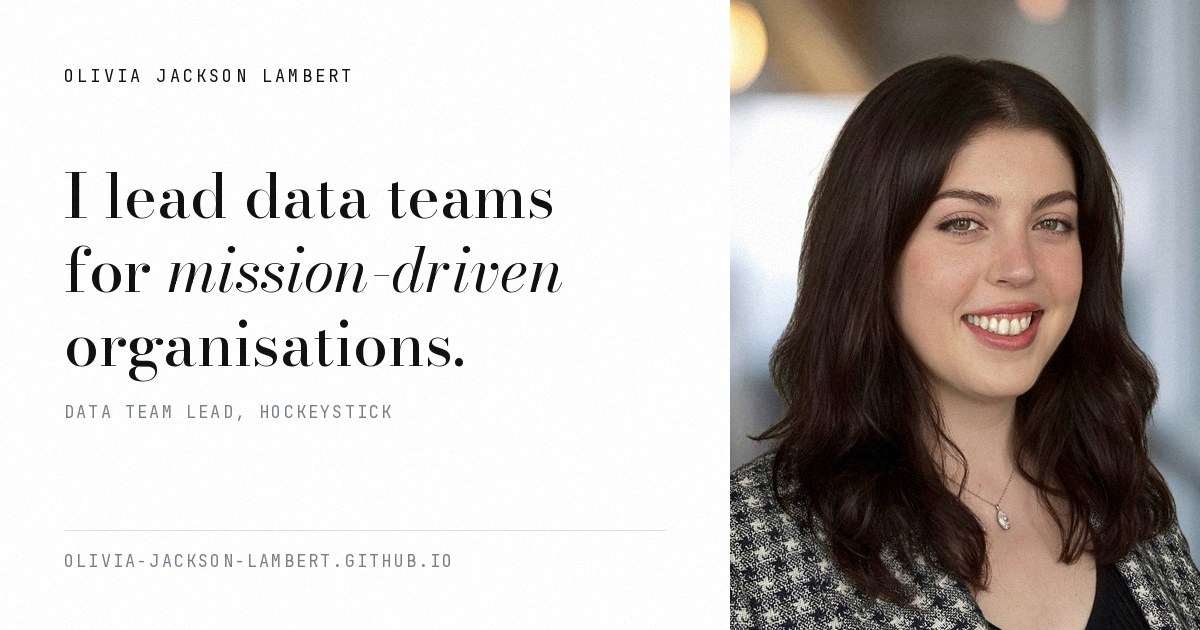
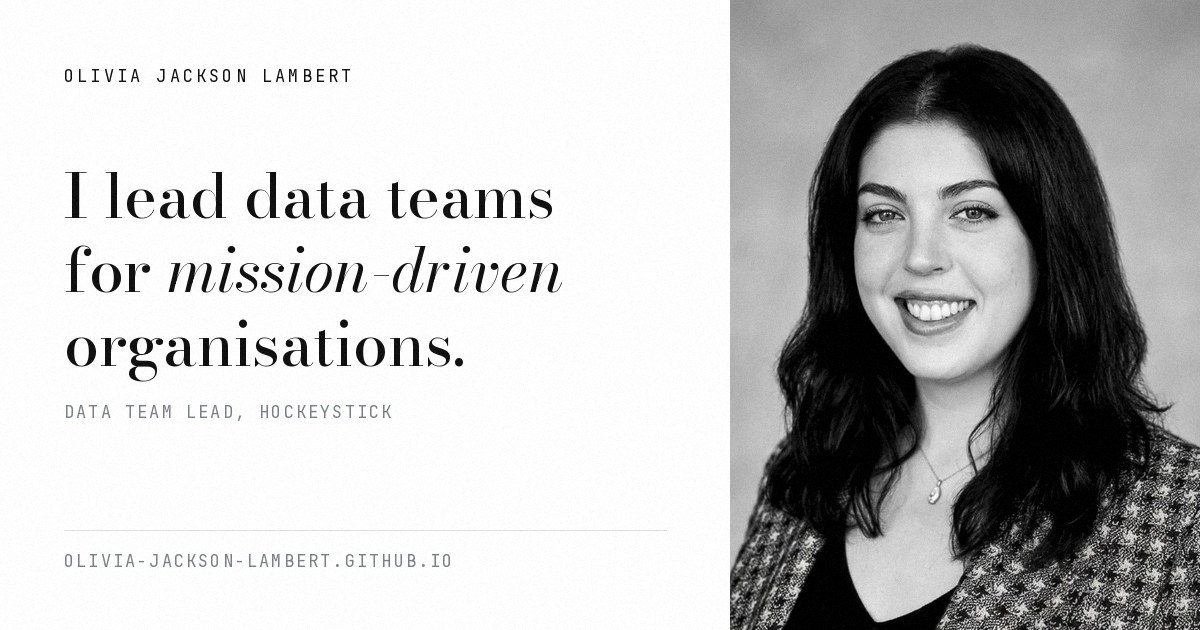
New black-and-white headshot on the homepage, social card and structured data; more space under article titles

diff --git a/styles.css b/styles.css
@@ -822,3 +822,6 @@ main.content .quarto-figure img, main.content figure img { cursor: zoom-in; }
   body:not(.home) #title-block-header { grid-column: body-content-start / body-content-end !important; }
   body:not(.home) #quarto-sidebar.toc-left, body:not(.home) .sidebar.toc-left { grid-column: page-start / body-start !important; padding-right: 24px; }
 }
+/* breathing room between the article title and its description */
+body:not(.home) .quarto-title-block .title { margin-bottom: 28px !important; }
+body:not(.home) .quarto-title-block .description { margin-top: 0 !important; }
